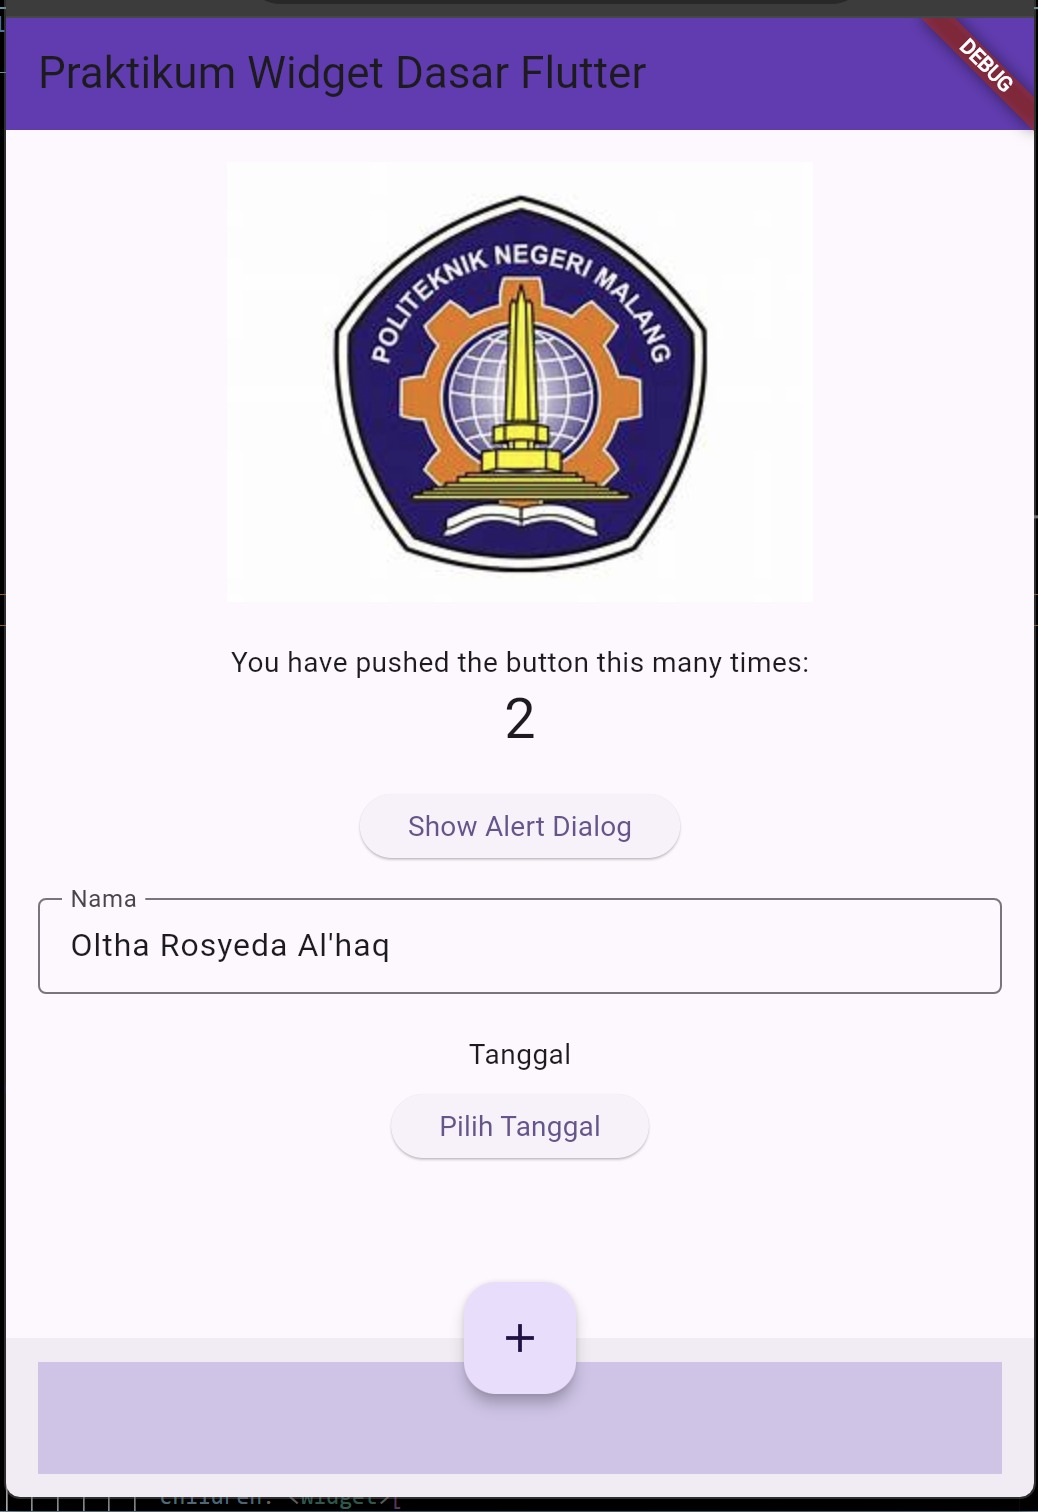
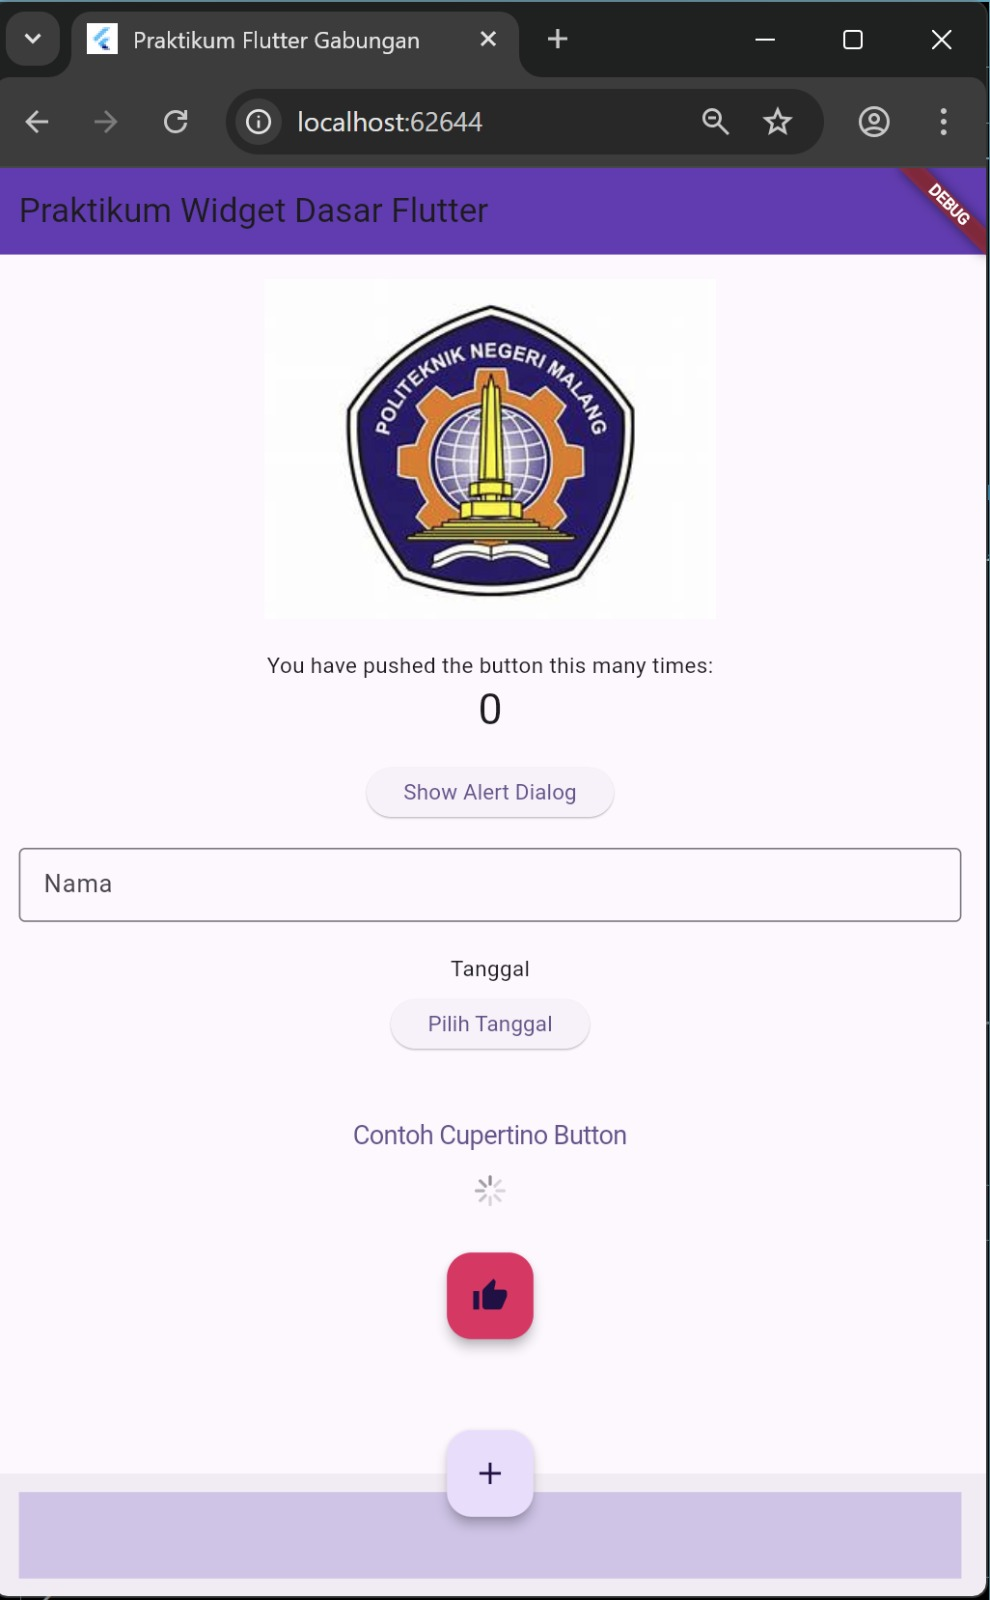
Update

diff --git a/lib/main.dart b/lib/main.dart
@@ -1,6 +1,7 @@
 import 'dart:async';
+import 'package:flutter/cupertino.dart'; 
 import 'package:flutter/material.dart';
-import 'basic_widgets/image_widget.dart'; 
+import 'basic_widgets/image_widget.dart';
 
 void main() {
   runApp(const MyApp());
@@ -131,6 +132,28 @@ class _MyHomePageState extends State<MyHomePage> {
                   onPressed: () => _selectDate(context),
                   child: const Text("Pilih Tanggal"),
                 ),
+
+                const SizedBox(height: 30),
+
+                // 6. Cupertino Button & Loading Indicator
+                CupertinoButton(
+                  child: const Text("Contoh Cupertino Button"),
+                  onPressed: () {},
+                ),
+                const CupertinoActivityIndicator(),
+
+                const SizedBox(height: 30),
+
+                // 7. FAB Tambahan 
+                FloatingActionButton(
+                  onPressed: () {
+                    ScaffoldMessenger.of(context).showSnackBar(
+                      const SnackBar(content: Text("FAB Pink ditekan!")),
+                    );
+                  },
+                  backgroundColor: Colors.pink,
+                  child: const Icon(Icons.thumb_up),
+                ),
               ],
             ),
           ),
@@ -139,6 +162,7 @@ class _MyHomePageState extends State<MyHomePage> {
       bottomNavigationBar: BottomAppBar(
         child: Container(height: 50.0, color: Colors.deepPurple.shade100),
       ),
+      // FAB utama counter
       floatingActionButton: FloatingActionButton(
         onPressed: _incrementCounter,
         tooltip: 'Increment Counter',

diff --git a/README.md b/README.md
@@ -20,6 +20,14 @@ samples, guidance on mobile development, and a full API reference.
 # Praktikum 4-logo
 ![Praktikum 4](images/Praktikum4.jpeg)
 
+# Langkah 1 – Cupertino Button dan Loading Bar
+menampilkan contoh tombol CupertinoButton dan indikator loading ala iOS (CupertinoActivityIndicator) agar kita mengenal widget bergaya iOS di Flutter.
+![Praktikum5_Langkah 3](images/praktikum5_langkah1.jpeg)
+
+# Langkah 2 – Floating Action Button (FAB)
+menampilkan FloatingActionButton berwarna pink dengan ikon tumbs up, yang biasanya dipakai untuk aksi utama dalam sebuah halaman aplikasi Flutter.
+![Praktikum5_Langkah 3](images/praktikum5_langkah2.jpeg)
+
 # Langkah 3 – Scaffold Widget
 Scaffold digunakan untuk membuat kerangka layout Material Design, termasuk AppBar dan FloatingActionButton.
 ![Praktikum5_Langkah 3](images/praktikum5_langkah3.jpeg)
